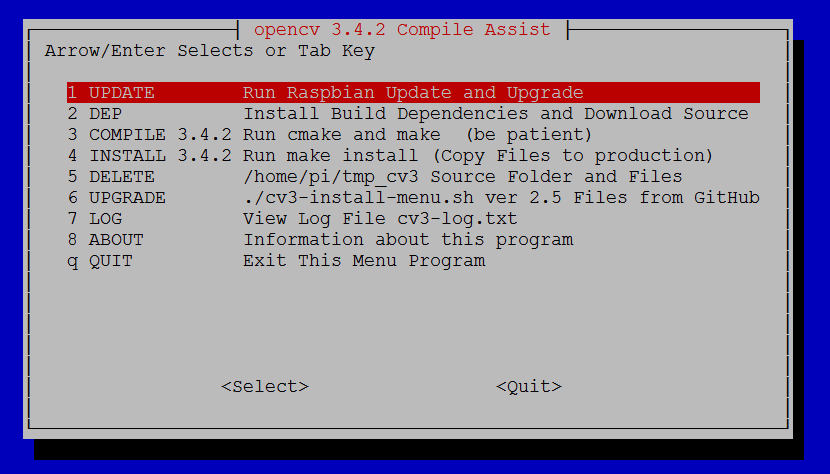
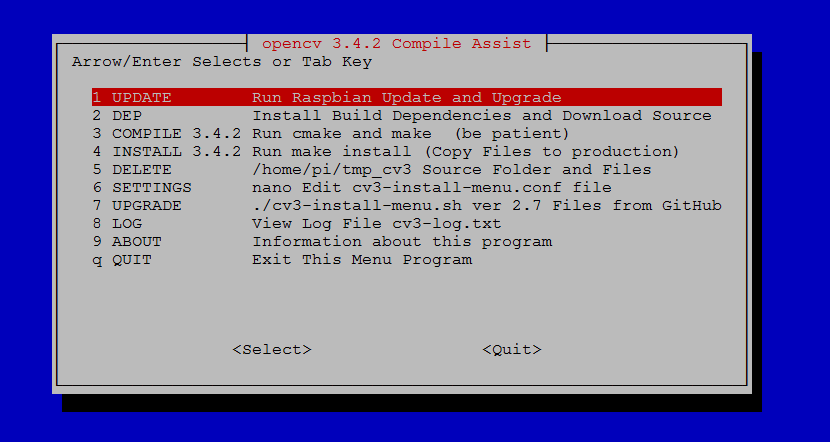
Add Settings Menu pick

diff --git a/Readme.md b/Readme.md
@@ -47,6 +47,7 @@ The [***cv3-install-menu.sh***](https://github.com/pageauc/opencv3-setup/blob/ma
 * Optional run ***make clean*** to clear build directory to force full recompile.
 * ***DELETE*** menu pick to optionally recover disk space by deleting the ***tmp_cv3*** folder containing
 opencv source, build files and folders.
+* ***SETTINGS*** menu pick to nano edit the [***cv3--install-menu.conf***](https://github.com/pageauc/opencv3-setup/blob/master/cv3-install-menu.conf) file
 
 ## Prerequisites
 * Basic knowledge of unix terminal commands.
@@ -102,7 +103,7 @@ If there is not enough room on the system SD you can point the ***INSTALL_DIR***
 USB Stick or disk drive media.  
 ***IMPORTANT:*** The USB memory stick or disk media must ***NOT be formatted as FAT***
 since it does not support symbolic links that are needed to compile opencv.
-Use a unix ext4 or NTFS format to avoid a failed make compile.   
+Use a unix format like ext4 or microsoft NTFS format to avoid a failed make compile.   
 For details see 
 [***How To Mount External USB Storage***](https://github.com/pageauc/opencv3-setup#how-to-mount-external-usb-storage)
 
